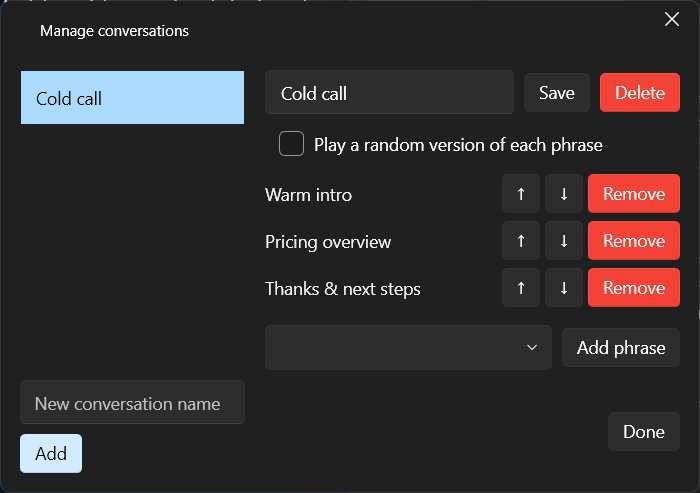
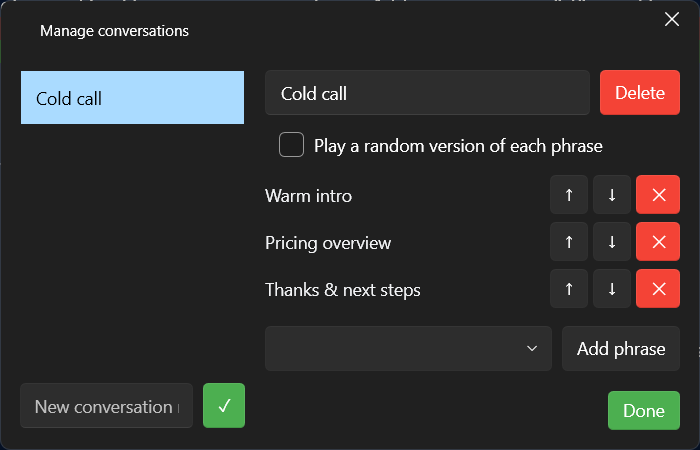
docs: ManageConversationsDialog rework review note + light-theme screenshots
Also refreshes settings-light and manage-categories-light now that the
after-light theme bug is fixed, so this workstream's screenshot record
reflects both themes correctly.

diff --git a/docs/design/screenshots/review/manage-conversations-rework-review.md b/docs/design/screenshots/review/manage-conversations-rework-review.md
@@ -1,0 +1,52 @@
+# ManageConversationsDialog rework review (owner UX feedback, 2026-07-12)
+
+## What changed
+
+Same owner feedback batch as `ManageCategoriesDialog`, applied to
+`src/AdaVoice.App/ManageConversationsDialog.xaml` + `.xaml.cs` (commit `a3c75af`):
+
+- Done → `Appearance="Success"` (green).
+- Row height consistency (`Height="36"`, matching the sibling dialog) on the rename row (name
+  TextBox + Delete) and the "Add phrase" row (ComboBox + button).
+- Member-list "Remove" → icon-only "✕" (`ToolTip="Remove"`). The conversation-level "Delete"
+  button (top area) is deliberately unchanged in content/appearance, per the owner's explicit
+  instruction to treat the two differently.
+- Rename "Save" button removed — the name `TextBox`'s `LostFocus` now auto-persists via a new
+  `RowField_Committed` code-behind handler (same pattern as `ManageCategoriesDialog.xaml.cs`).
+  `ConversationsViewModel.cs`/`ConversationRowViewModel` untouched.
+- New-conversation row: `StackPanel` → `Grid`, so "Add" sits on the same line as its text
+  input.
+- New-conversation "Add" → `Content="✓"`, `Appearance="Success"`. The unrelated "Add phrase"
+  button (member section) is deliberately unchanged.
+
+## Screenshots used
+
+- Before: `docs/design/screenshots/before/dark/manage-conversations.png`
+- After: `docs/design/screenshots/after/manage-conversations.png`
+
+Visually confirmed (by the controller, since the reviewer subagent doesn't view images): even
+row heights throughout, red "✕" on member Remove, "Delete" unchanged, green "✓" Add on the same
+line as the new-conversation input, green Done.
+
+## Remaining issues
+
+None blocking. Reviewer noted one cosmetic-only inconsistency: `Height` attribute ordering
+varies slightly between the touched buttons (before vs. after `Content`/`Appearance`) — no
+functional effect, not worth a follow-up commit.
+
+## Files changed
+
+- `src/AdaVoice.App/ManageConversationsDialog.xaml`
+- `src/AdaVoice.App/ManageConversationsDialog.xaml.cs`
+- (commit `a3c75af`)
+
+## Build/test result
+
+- `dotnet build AdaVoice.slnx` — 0 warnings, 0 errors.
+- `dotnet test AdaVoice.slnx` (full suite, excl. interactive screenshot tests) — all green
+  (App: 238/238, unchanged — no ViewModel touched).
+- Screenshot regeneration — passed, visually confirmed above.
+
+## Ready for human review
+
+Yes.
